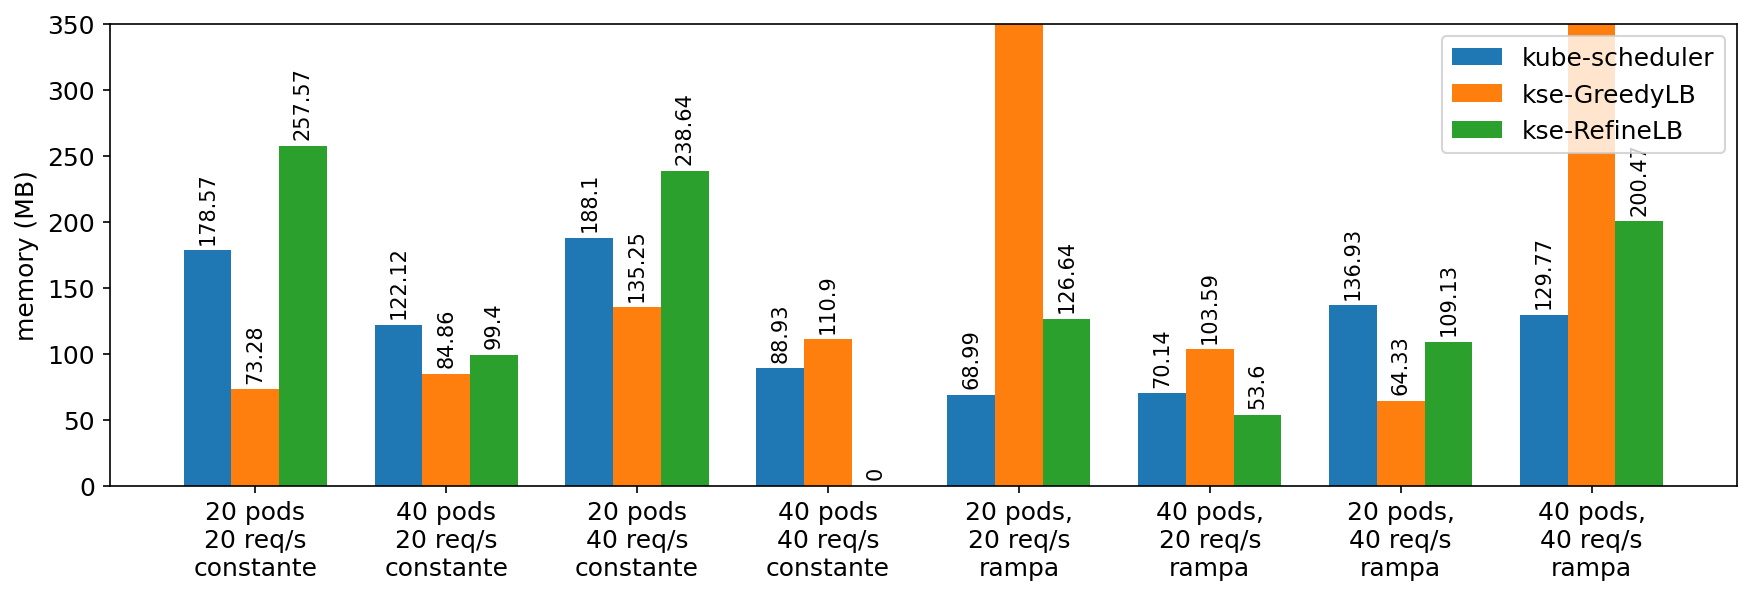
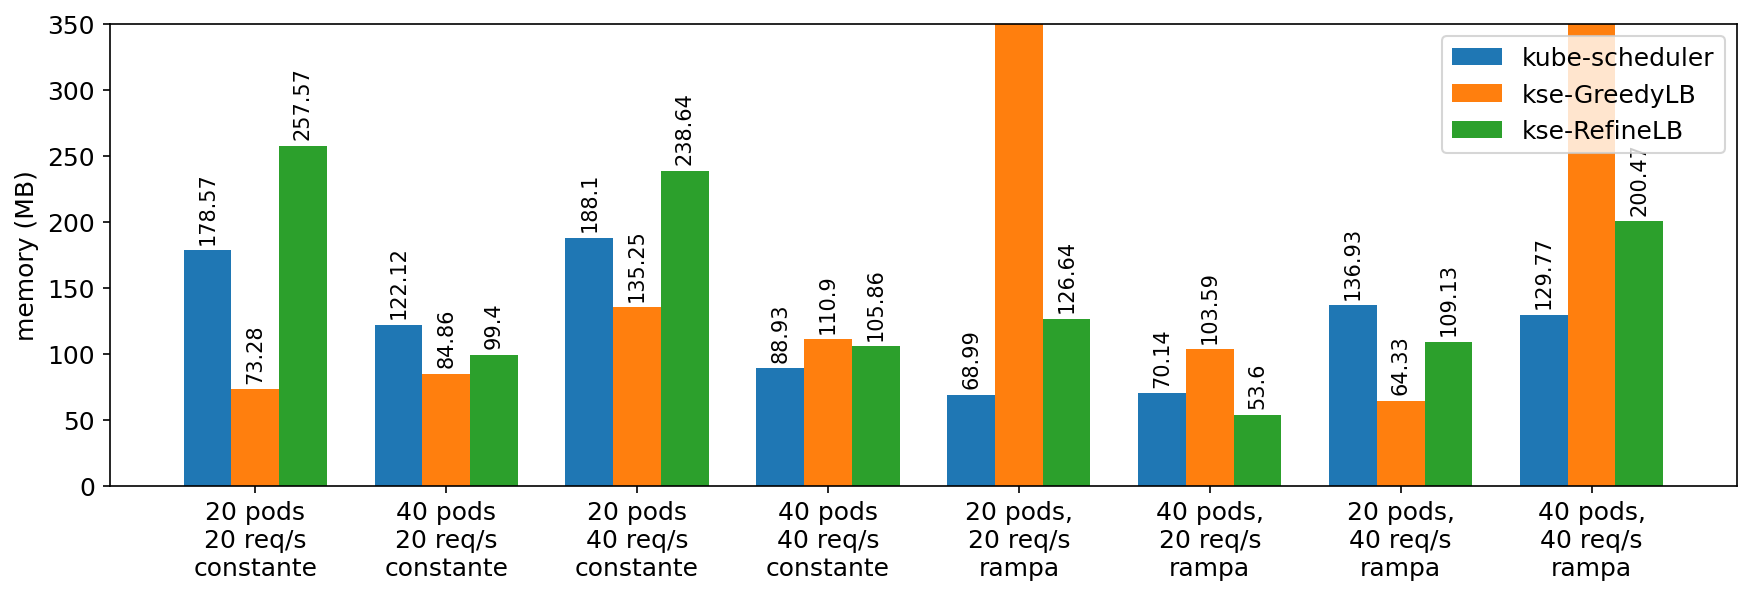
update

Changed region(s): [[0.4623, 0.4538, 0.524, 0.8168]]

diff --git a/results/summary_kse-RefineLB_40_40_constant_exponential_memory.html b/results/summary_kse-RefineLB_40_40_constant_exponential_memory.html
@@ -152,14 +152,14 @@
         <div class="box">
           <i class="fas fa-globe icon"></i>
           <h4>Total Requests</h4>
-          <div class="bignum">22701</div>
+          <div class="bignum">24001</div>
           
         </div>
         
           <div class="box failed">
             <i class="far fa-times-circle icon"></i>
             <h4>Failed Requests</h4>
-            <div class="bignum">1094</div>
+            <div class="bignum">4</div>
           </div> 
              
         <div class="box good">
@@ -206,15 +206,15 @@
                     
                     
                     
-                      <td class="">1230.01 ms</td>
+                      <td class="">139.65 ms</td>
                     
     
                     
-                      <td class="">60001.01 ms</td>
+                      <td class="">1405.06 ms</td>
                       
     
                     
-                      <td class="">126.92 ms</td>
+                      <td class="">129.56 ms</td>
                       
                     
                     
@@ -222,11 +222,11 @@
                        
                                   
                     
-                      <td class="">199.80 ms</td>
+                      <td class="">190.69 ms</td>
                     
     
                     
-                      <td class="">269.73 ms</td>
+                      <td class="">226.55 ms</td>
                     
                   </tr>
                 
@@ -242,15 +242,15 @@
                     
                     
                     
-                      <td class="">1228.82 ms</td>
+                      <td class="">139.51 ms</td>
                     
     
                     
-                      <td class="">60000.98 ms</td>
+                      <td class="">1404.89 ms</td>
                       
     
                     
-                      <td class="">126.78 ms</td>
+                      <td class="">129.41 ms</td>
                       
                     
                     
@@ -258,11 +258,11 @@
                        
                                   
                     
-                      <td class="">199.63 ms</td>
+                      <td class="">190.58 ms</td>
                     
     
                     
-                      <td class="">269.60 ms</td>
+                      <td class="">226.43 ms</td>
                     
                   </tr>
                 
@@ -278,15 +278,15 @@
                     
                     
                     
-                      <td class="">1.48 ms</td>
+                      <td class="">1.50 ms</td>
                     
     
                     
-                      <td class="">90.97 ms</td>
+                      <td class="">6.40 ms</td>
                       
     
                     
-                      <td class="">1.52 ms</td>
+                      <td class="">1.53 ms</td>
                       
                     
                     
@@ -294,11 +294,11 @@
                        
                                   
                     
-                      <td class="">2.15 ms</td>
+                      <td class="">2.19 ms</td>
                     
     
                     
-                      <td class="">2.40 ms</td>
+                      <td class="">2.38 ms</td>
                     
                   </tr>
                 
@@ -350,15 +350,15 @@
                     
                     
                     
-                      <td class="">1.12 ms</td>
+                      <td class="">0.08 ms</td>
                     
     
                     
-                      <td class="">22018.47 ms</td>
+                      <td class="">2.82 ms</td>
                       
     
                     
-                      <td class="">0.07 ms</td>
+                      <td class="">0.08 ms</td>
                       
                     
                     
@@ -370,7 +370,7 @@
                     
     
                     
-                      <td class="">0.12 ms</td>
+                      <td class="">0.13 ms</td>
                     
                   </tr>
                 
@@ -386,11 +386,11 @@
                     
                     
                     
-                      <td class="">0.06 ms</td>
+                      <td class="">0.07 ms</td>
                     
     
                     
-                      <td class="">0.52 ms</td>
+                      <td class="">1.41 ms</td>
                       
     
                     
@@ -422,15 +422,15 @@
                     
                     
                     
-                      <td class="">1.56 ms</td>
+                      <td class="">1.59 ms</td>
                     
     
                     
-                      <td class="">91.05 ms</td>
+                      <td class="">6.54 ms</td>
                       
     
                     
-                      <td class="">1.62 ms</td>
+                      <td class="">1.63 ms</td>
                       
                     
                     
@@ -438,11 +438,11 @@
                        
                                   
                     
-                      <td class="">2.26 ms</td>
+                      <td class="">2.30 ms</td>
                     
     
                     
-                      <td class="">2.51 ms</td>
+                      <td class="">2.49 ms</td>
                     
                   </tr>
                 
@@ -458,27 +458,27 @@
                     
                     
                     
-                      <td class="">2025.63 ms</td>
+                      <td class="">141.39 ms</td>
                     
     
                     
-                      <td class="">60001.93 ms</td>
+                      <td class="">1407.13 ms</td>
                       
     
                     
-                      <td class="">130.31 ms</td>
+                      <td class="">131.35 ms</td>
                       
                     
                     
-                      <td class="">0.91 ms</td>
+                      <td class="">1.53 ms</td>
                        
                                   
                     
-                      <td class="">226.59 ms</td>
+                      <td class="">192.51 ms</td>
                     
     
                     
-                      <td class="">709.39 ms</td>
+                      <td class="">228.19 ms</td>
                     
                   </tr>
                 
@@ -486,63 +486,6 @@
             </table>
           </div>
           
-             <h2>Custom Metrics</h2>
-              <div class="table-responsive"> 
-                <table class="table table-striped">
-                    <thead>
-                      <tr>
-                        <th scope="col">Thresholds</th>
-                        <th scope="col">Count</th>
-                        <th scope="col">Rate</th>
-                        <th scope="col">Average</th>
-                        <th scope="col">Maximum</th>
-                        <th scope="col">Median</th> 
-                        <th scope="col">Minimum</th>
-                        <th scope="col">90%</th>
-                        <th scope="col">95%</th>
-                      </tr>
-                    </thead>
-                    <tbody>
-                    <tr>
-                      <td><b>dropped_iterations</b></td>
-      
-                      
-                        <td class="">1300.00</td>
-                      
-      
-                      
-                        <td class="">2.06</td>
-                      
-                      
-                      
-                        <td>-</td>
-                      
-      
-                      
-                        <td>-</td>
-                        
-      
-                      
-                        <td>-</td>
-                        
-                      
-                      
-                        <td>-</td>
-                         
-                                    
-                      
-                        <td>-</td>
-                      
-      
-                      
-                        <td>-</td> 
-                      
-                    </tr>
-                  </tbody>
-                </table>
-              </div>
-              
-        
         </div> 
         <!-- ---- end tab ---- -->
         <input type="radio" name="tabs" id="tabtwo">
@@ -554,34 +497,34 @@
               <div class="box info">
                 <h4>Iterations</h4>
                 <i class="fas fa-redo icon"></i>
-                <div class="row"><div>Total</div><div>22700</div></div>
-                <div class="row"><div>Rate</div><div>36.03/s</div></div>
+                <div class="row"><div>Total</div><div>24001</div></div>
+                <div class="row"><div>Rate</div><div>39.99/s</div></div>
               </div>
             
             <div class="box info">
               <h4>Virtual Users</h4>
               <i class="fas fa-user icon"></i>
               <div class="row"><div>Min</div><div>100</div></div>
-              <div class="row"><div>Max</div><div>500</div></div>
+              <div class="row"><div>Max</div><div>100</div></div>
             </div>
           </div>
           <div class="row">
             <div class="box info">
               <h4>Requests</h4>
               <i class="fas fa-globe icon"></i>
-              <div class="row"><div>Total</div><div>22701</div></div>
-              <div class="row"><div>Rate</div><div>36.03/s</div></div>
+              <div class="row"><div>Total</div><div>24001</div></div>
+              <div class="row"><div>Rate</div><div>39.99/s</div></div>
             </div>
             <div class="box info">
               <h4>Data Received</h4>
               <i class="fas fa-cloud-download-alt icon"></i>
-              <div class="row"><div>Total</div><div>4.45 MB</div></div>
+              <div class="row"><div>Total</div><div>4.95 MB</div></div>
               <div class="row"><div>Rate</div><div>0.01 mB/s</div></div>
             </div>
             <div class="box info">
               <h4>Data Sent</h4>
               <i class="fas fa-cloud-upload-alt icon"></i>
-              <div class="row"><div>Total</div><div>1.89 MB</div></div>
+              <div class="row"><div>Total</div><div>2.06 MB</div></div>
               <div class="row"><div>Rate</div><div>0.00 mB/s</div></div>
             </div>   
           </div>
